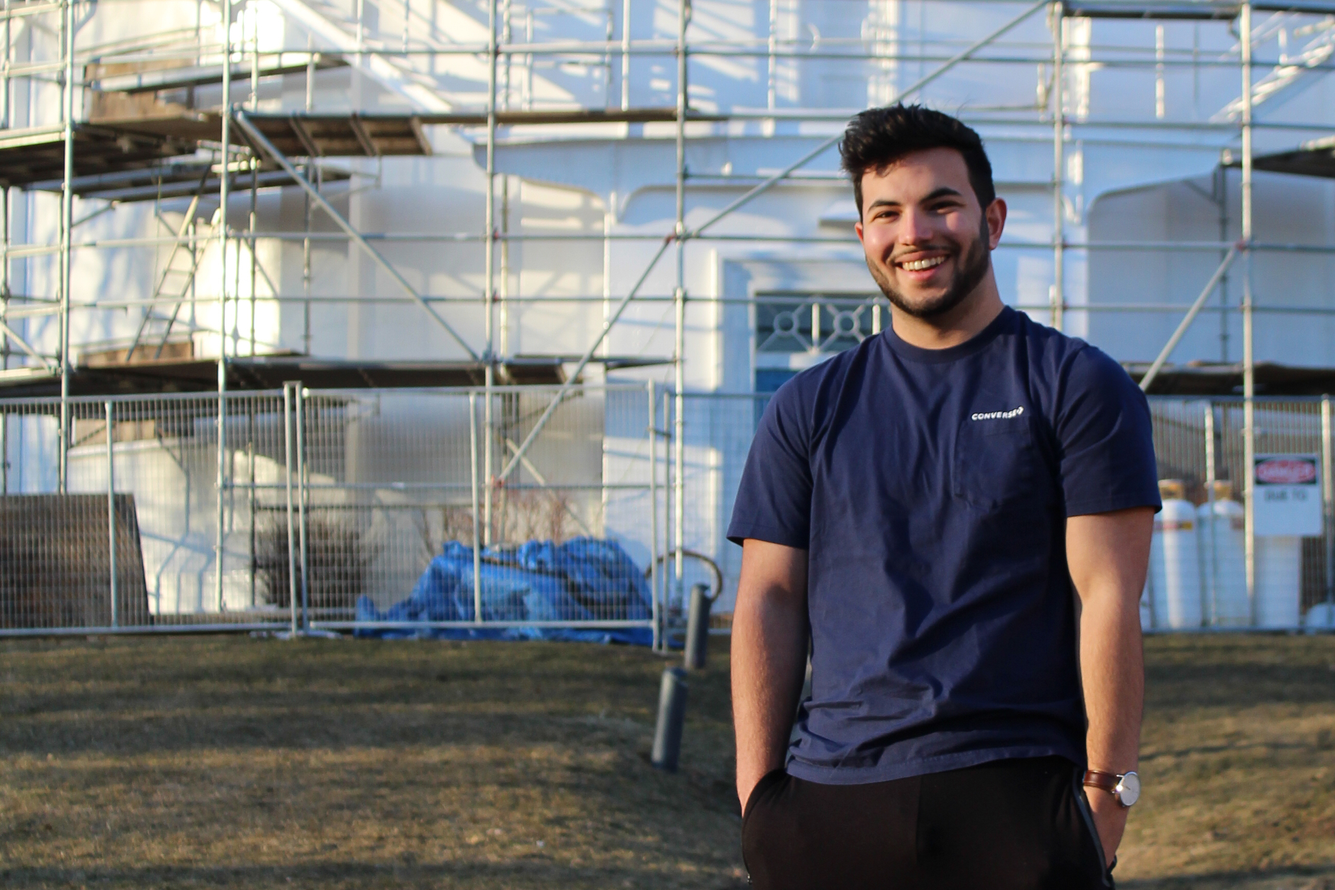
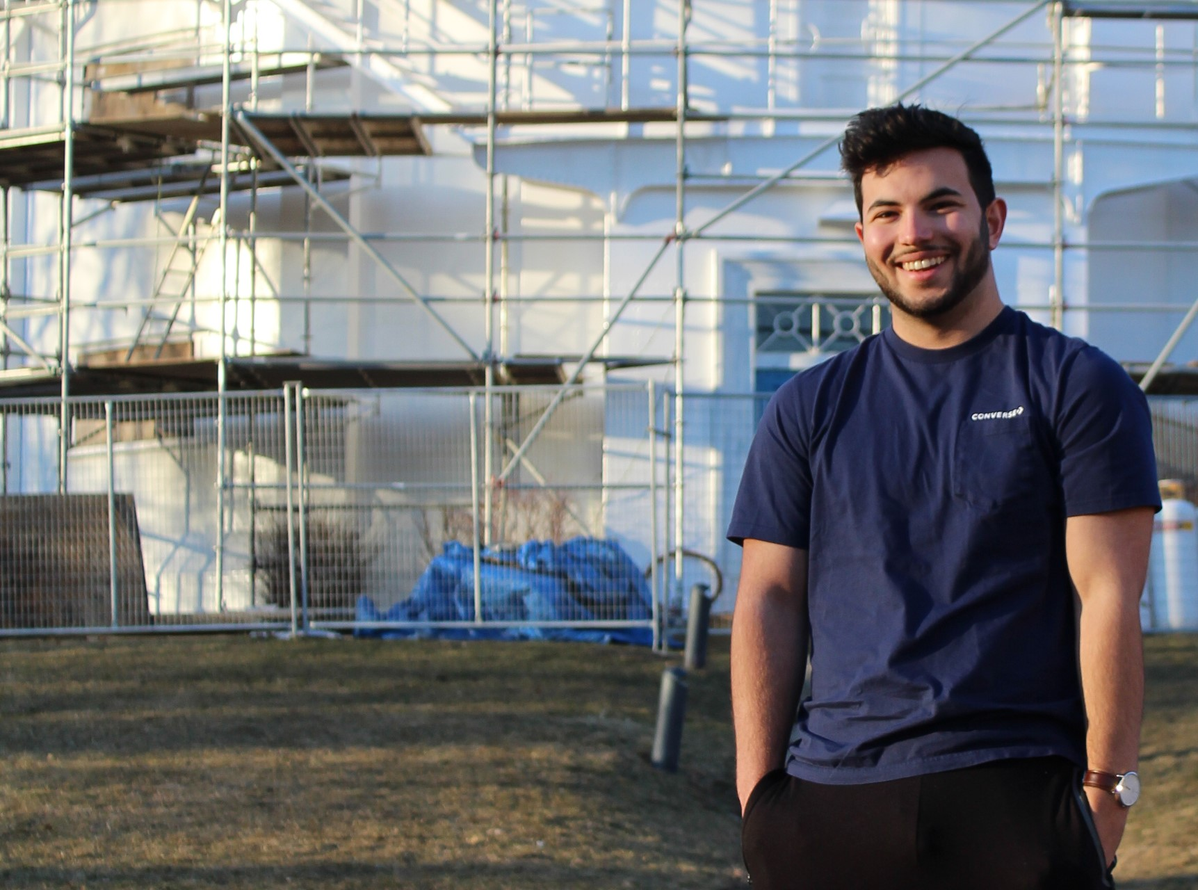
Fixed IOS img

diff --git a/index.html b/index.html
@@ -84,7 +84,7 @@
 
         <div class="section-title l-pad">
           <h2>About</h2>
-          <p>Hello, my name is Noah, and I'm from Vaughan, Ontario. I'm in my third year of my undergrad at Queen's University, where I'm studying Mechatronics and Robotics Engineering. I am passionate about automation and problem-solving, which is why I love what I do. Integrating technology to solve problems is a great challenge I'm always up for!</p>
+          <p>Hello, my name is Noah, and I'm from Vaughan, Ontario. I'm in the third year of my undergrad at Queen's University, where I'm studying Mechatronics and Robotics Engineering. I am passionate about automation and problem-solving, which is why I love what I do. Integrating technology to solve problems is a challenge I'm always up for!</p>
         </div>
 
         <div class="row l-pad">
@@ -113,7 +113,7 @@
               </div>
             </div>
             <p>
-              I was born in Johannesburg, South Africa and moved to Canada when I was seven. I love spending my free time hanging out with friends and family or building personal projects. My favourite activity is to travel, so I can see the world and always have the adventure. I also enjoy physical activity, which is why I always like playing soccer, working out or going on a hike.
+              I'm originally from Johannesburg, South Africa. I love spending my free time hanging out with friends and family, building personal projects and working out. My favourite activity is to travel, so I can see the world and chase the adventure. 
             </p>
           </div>
         </div>

diff --git a/assets/css/style.css b/assets/css/style.css
@@ -233,7 +233,7 @@ h6 {
 #hero {
   width: 100%;
   height: 100vh;
-  background: url("../img/hero-bg.jpg") top center;
+  background: url("../img/hero-bg.jpg") top right;
   background-size: cover;
 }
 
